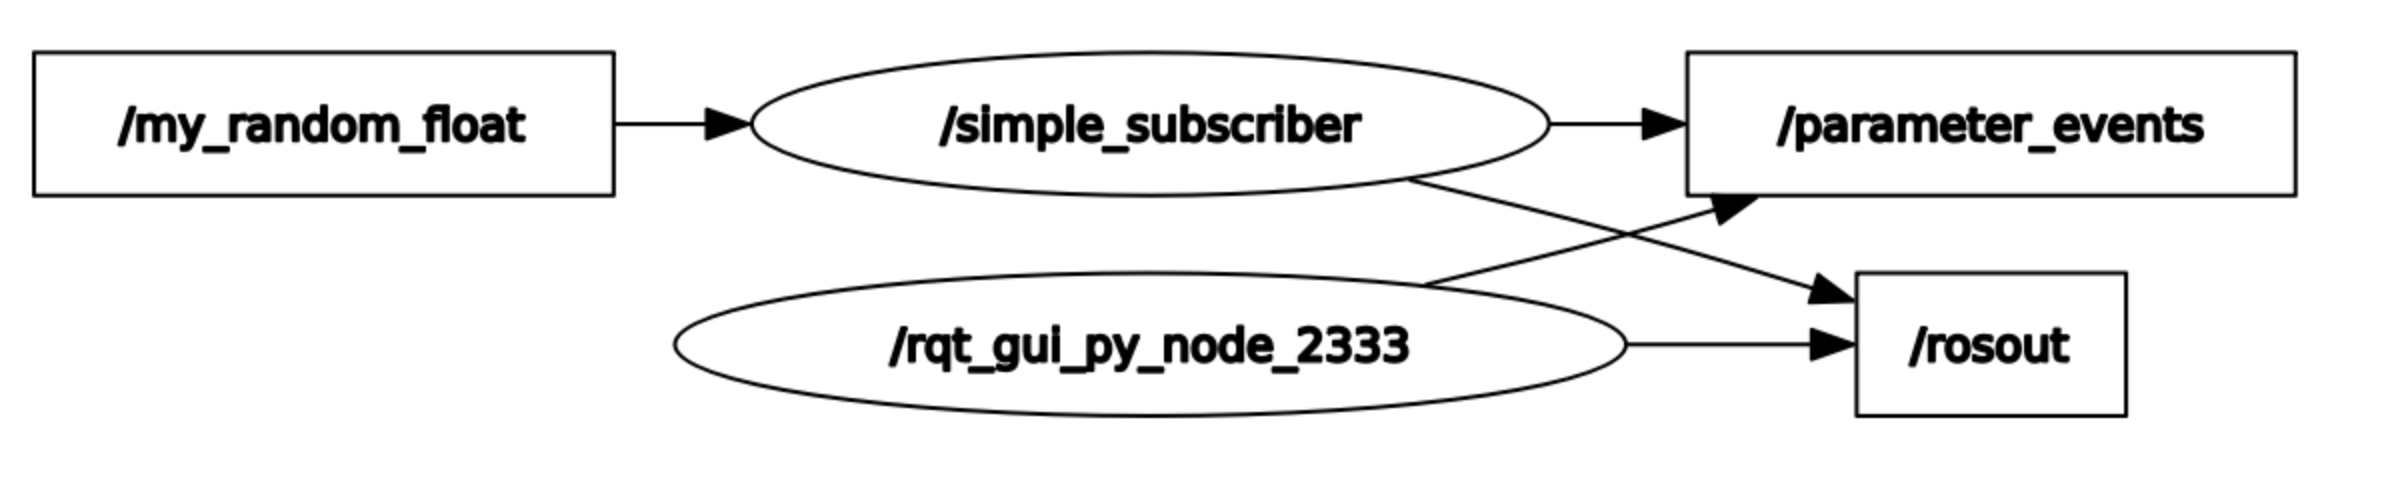
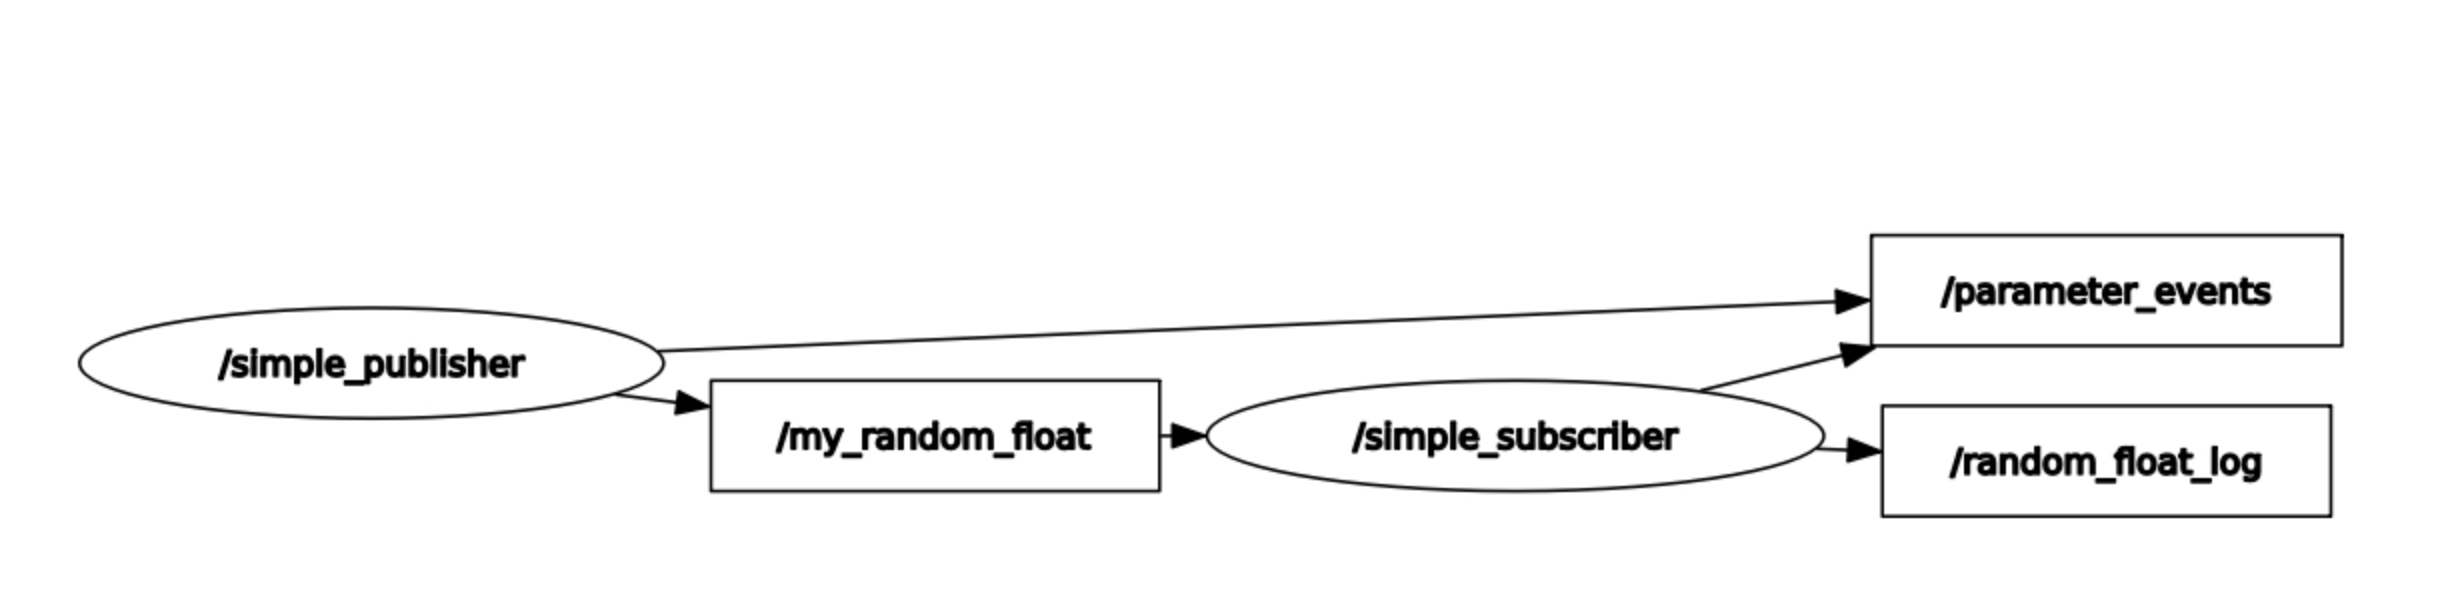
Committing final changes that passed the test cases.

diff --git a/ros_exercises/ros_exercises/dynamic_tf_cam_publisher.py b/ros_exercises/ros_exercises/dynamic_tf_cam_publisher.py
@@ -119,13 +119,13 @@ class DynamicTfCamPublisher(Node):
         ############################# Example from lecture/lab #############################
 
         ## left camera (Z forward, X right, Y down)
-        left_cam_to_robot_translation = [-0.05, 0, 0] # -0.05 (left) relative to base_line_gt pose
+        left_cam_to_robot_translation = [-0.05, 0.0, 0.0] # -0.05 (left) relative to base_line_gt pose
         left_cam_to_robot_translation = np.array(left_cam_to_robot_translation).T
         left_cam_to_robot = np.eye(4)
         left_cam_to_robot[:3, -1] = left_cam_to_robot_translation[:3]
 
         ## right camera
-        right_cam_to_left_translation = [0.1, 0, 0] # 0.1 (right) relative to left pose
+        right_cam_to_left_translation = [0.1, 0.0, 0.0] # 0.1 (right) relative to left pose
         right_cam_to_left_translation = np.array(right_cam_to_left_translation).T
         right_cam_to_left = np.eye(4)
         right_cam_to_left[:3, -1] = right_cam_to_left_translation[:3]

diff --git a/ros_exercises/ros_exercises/simple_subscriber.py b/ros_exercises/ros_exercises/simple_subscriber.py
@@ -23,15 +23,19 @@ class SimpleSubscriber(Node):
 
     def __init__(self):
         super().__init__('simple_subscriber')
+        self.publisher_ = self.create_publisher(Float32, 'random_float_log', 10) # type, topic, queue
         self.subscription = self.create_subscription(
             Float32,
             'my_random_float',
             self.listener_callback,
             10)
         self.subscription  # prevent unused variable warning
-
+        
     def listener_callback(self, msg):
-        self.get_logger().info('I heard: "%s"' % math.log(msg.data))
+        new_msg = Float32()
+        new_msg.data = math.log(msg.data)
+        self.publisher_.publish(new_msg)
+        self.get_logger().info('Log of random float received: "%s"' % new_msg.data)
 
 
 def main(args=None):

diff --git a/ros_exercises/ros_exercises/open_space_publisher.py b/ros_exercises/ros_exercises/open_space_publisher.py
@@ -21,13 +21,14 @@ class ComplexSubscriber(Node):
             ['subscriber_topic', 'publisher_topic']
         )
         # set up
+        self.open_space_publisher_ = self.create_publisher(OpenSpace, subscriber_topic.value, 10)
         self.subscription = self.create_subscription(
             LaserScan,
             publisher_topic.value,
             self.listener_callback,
             10)
         self.subscription
-        self.open_space_publisher_ = self.create_publisher(OpenSpace, subscriber_topic.value, 10)
+        
 
 
     def listener_callback(self, msg):

diff --git a/ros_exercises/ros_exercises/fake_scan_publisher.py b/ros_exercises/ros_exercises/fake_scan_publisher.py
@@ -54,7 +54,9 @@ class FakeScanPublisher(Node):
         msg.ranges = ranges
         # msg.intensities = can leave unset
         self.publisher_.publish(msg)
-        self.test_publisher_(float(len(msg.ranges)))
+        test_msg = Float32()
+        test_msg.data = float(len(msg.ranges))
+        self.test_publisher_.publish(test_msg)
         self.get_logger().info('Publishing Fake Laser Scan')
 
 
